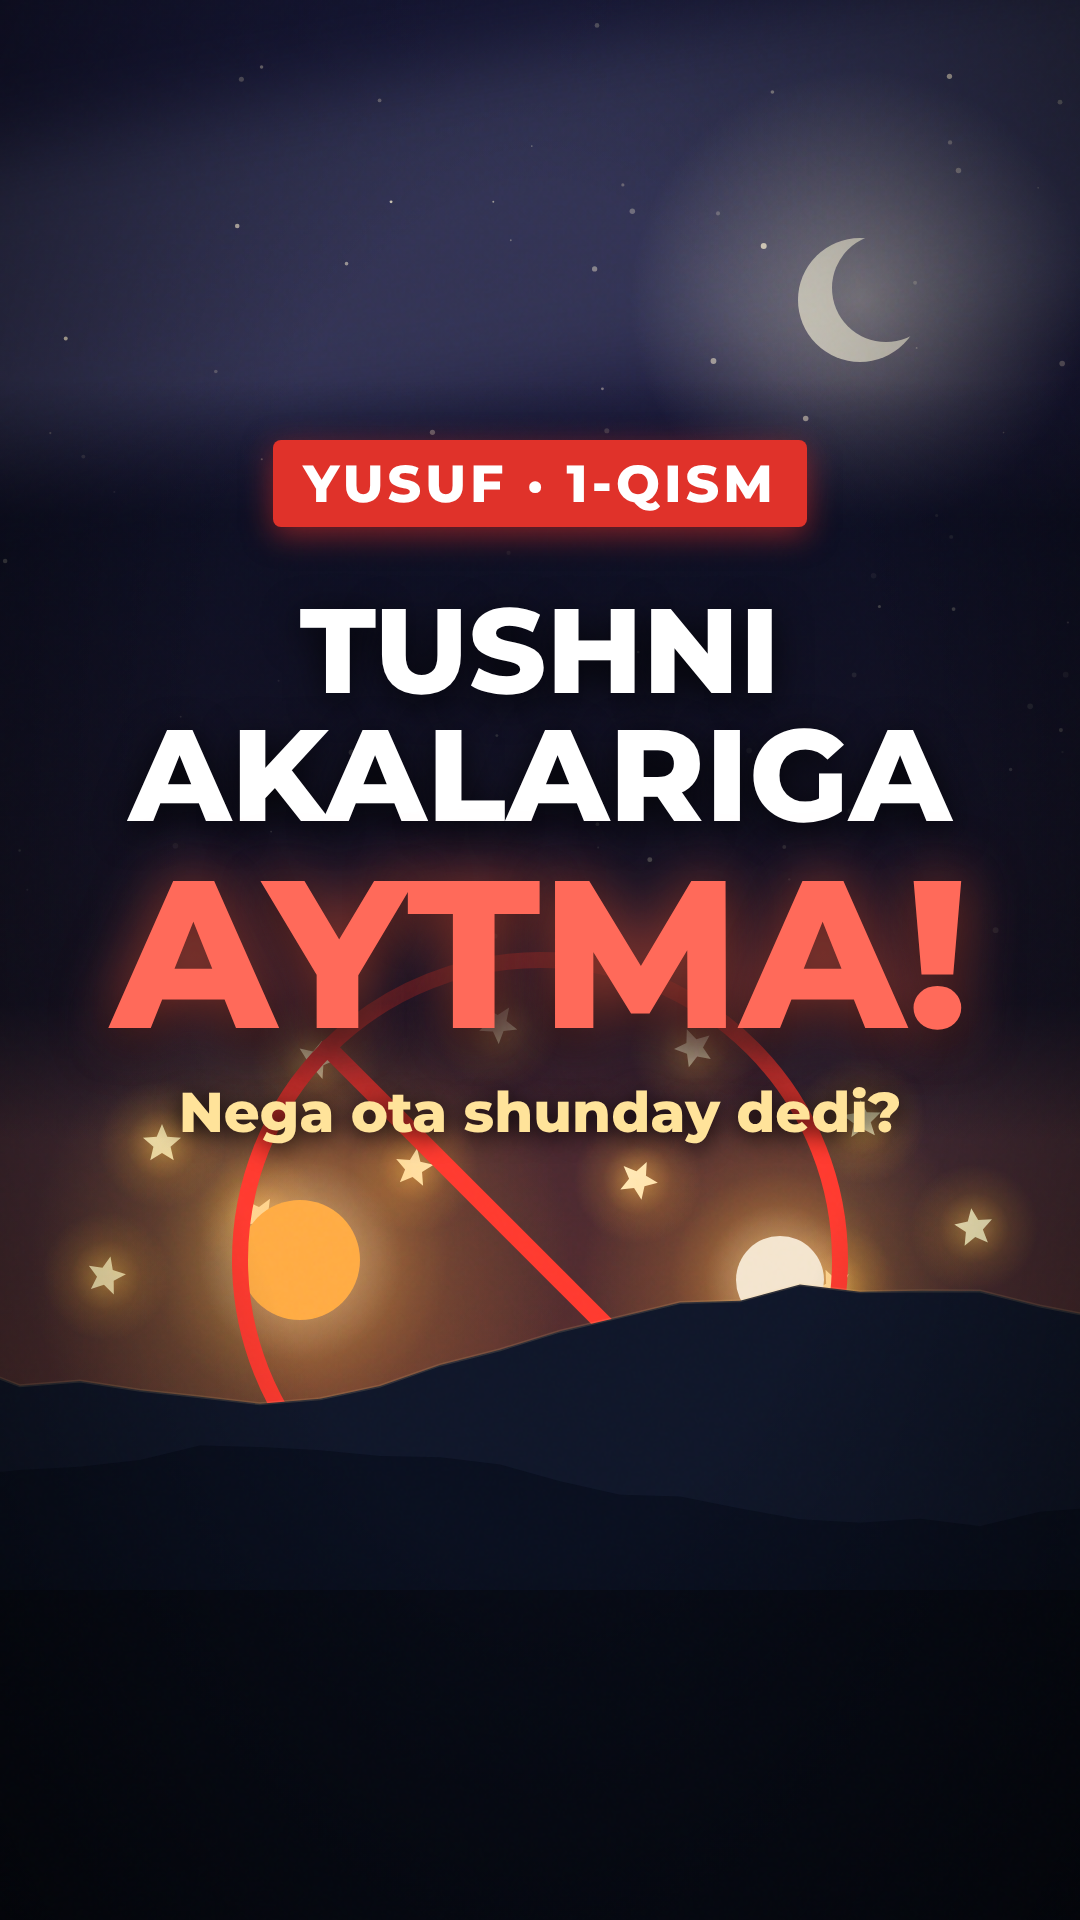
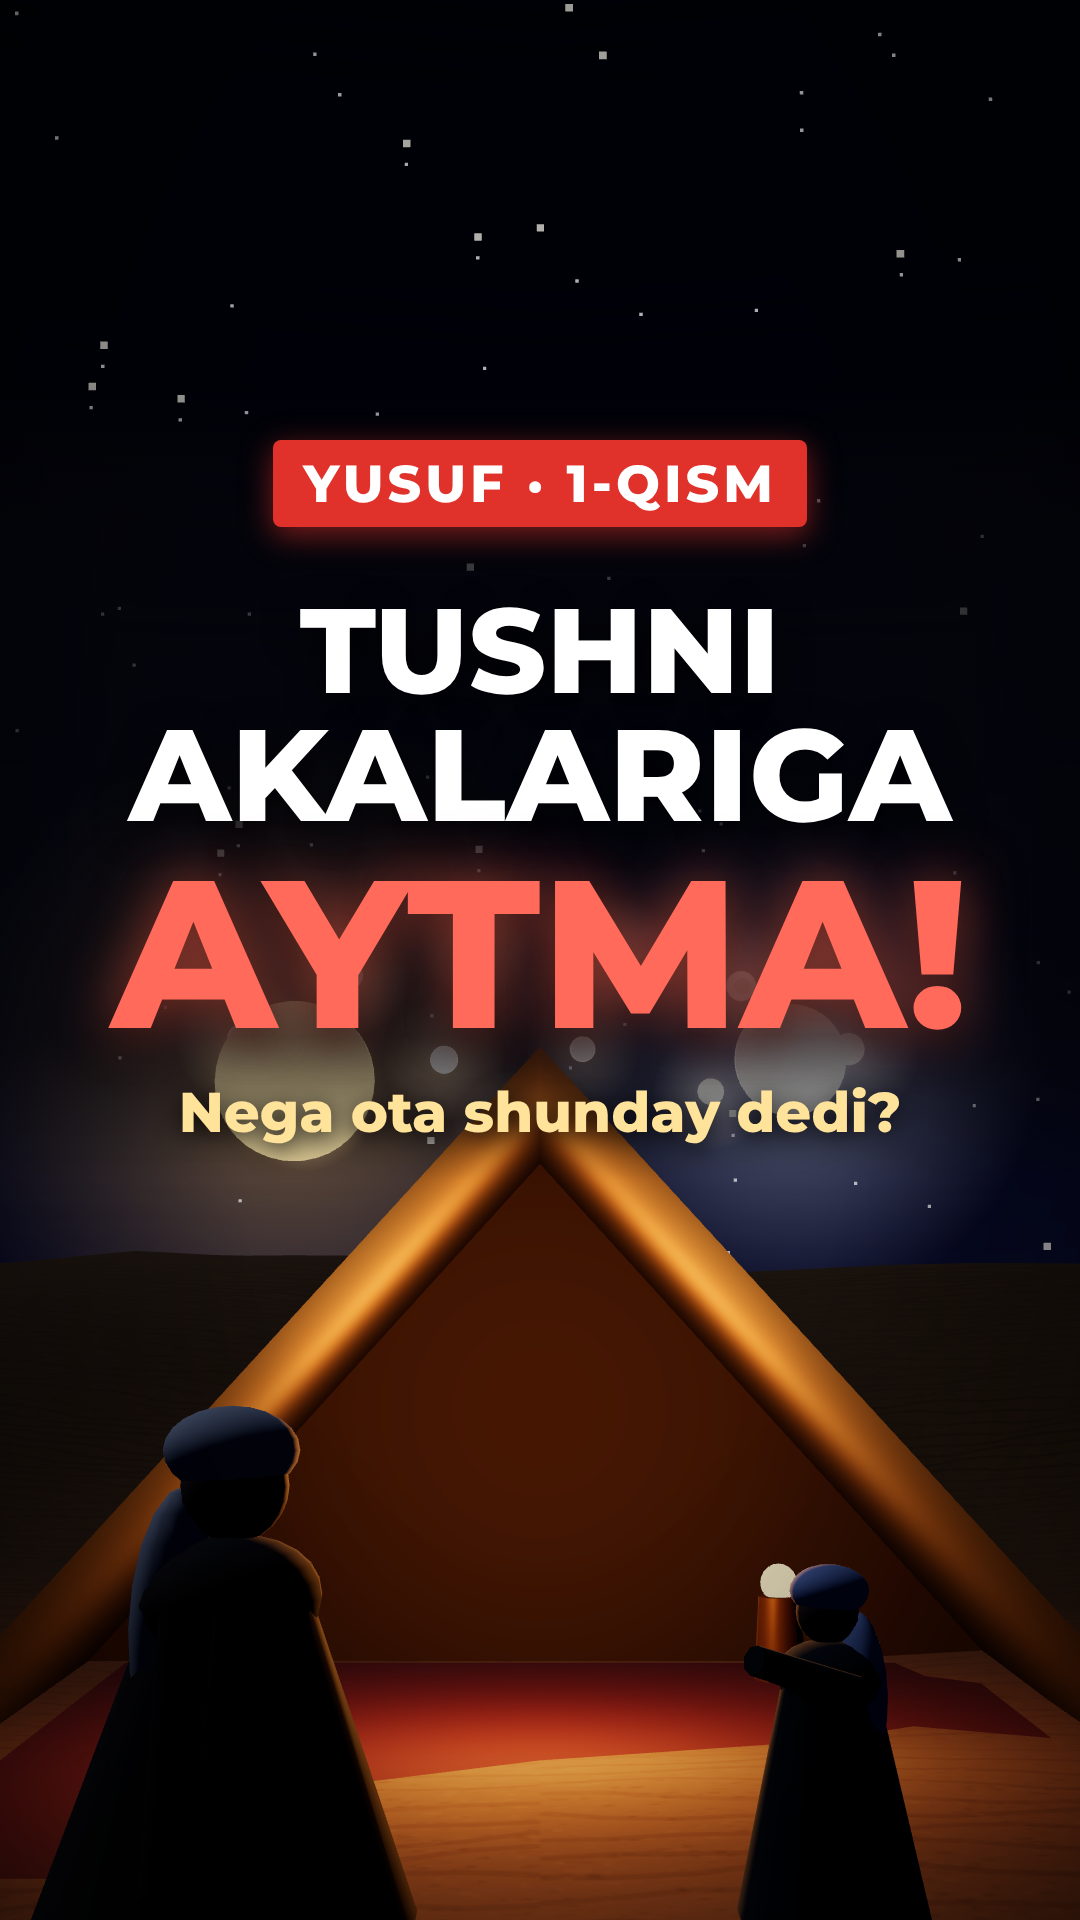
Yusuf 1: правки 3D после раскадровки, новая обложка
Claude-Session: https://claude.ai/code/session_016ssCvhv1Gc7e2VQYXfc3qP

diff --git a/reels/src/yusuf/Desert3D.tsx b/reels/src/yusuf/Desert3D.tsx
@@ -77,7 +77,6 @@ const Tent: React.FC<{t: number}> = ({t}) => {
     <group position={[T[0], gh(T[0], T[2]), T[2]]}>
       <mesh geometry={geo} castShadow><meshStandardMaterial color="#54432e" roughness={0.95} side={THREE.DoubleSide} /></mesh>
       <mesh rotation={[-Math.PI / 2, 0, 0]} position={[0, 0.02, 0]}><planeGeometry args={[3.6, 4]} /><meshStandardMaterial color="#6a2a22" roughness={0.9} /></mesh>
-      {[-1, 1].map((sd) => <mesh key={sd} position={[sd * 0.02, 1.1, 2.0]} rotation={[0, 0, 0]}><cylinderGeometry args={[0.04, 0.04, 2.2, 6]} /><meshStandardMaterial color="#2a1c10" /></mesh>)}
       <pointLight position={[0, 1.1, 0.4]} intensity={16 * fl} color="#ffa64a" distance={16} decay={2} />
       <mesh position={[0.9, 0.5, -0.6]}><sphereGeometry args={[0.07, 10, 10]} /><meshBasicMaterial color="#ffe2a0" /></mesh>
       <mesh position={[0.9, 0.3, -0.6]}><cylinderGeometry args={[0.08, 0.1, 0.3, 10]} /><meshStandardMaterial color="#6a4a1a" metalness={0.6} roughness={0.4} /></mesh>
@@ -136,7 +135,7 @@ const Scene: React.FC<{w: World; t: number}> = ({w, t}) => {
         {w.tent.mother && <Figure p={[0.75, ty, 2.7]} ry={Math.PI} seed={7} s={0.98} />}
         {w.tent.boy && <Figure p={[0.7, ty, 2.5]} ry={-Math.PI / 2 + 0.25} sit={0.55} arm={w.tent.boyArm ?? 0} seed={2} s={0.62} />}
       </>)}
-      {w.ridge !== undefined && Array.from({length: 11}, (_, i) => <Figure key={i} p={[ridgeX(i), ry - 1.6 * (1 - ss(0, 1, w.ridge! * 1.4 - i * 0.03)), RG[2] + (i % 2) * 0.25]} ry={Math.PI} seed={i} s={i === 10 ? 0.7 : 0.95 + rnd(i) * 0.12} />)}
+      {w.ridge !== undefined && Array.from({length: 11}, (_, i) => <Figure key={i} p={[ridgeX(i), ry, RG[2] + (i % 2) * 0.25]} ry={Math.PI} seed={i} s={i === 10 ? 0.7 : 0.95 + rnd(i) * 0.12} />)}
       {w.ridge !== undefined && <pointLight position={[RG[0], ry + 3.4, RG[2] + 1.5]} intensity={18 * w.ridge} color="#ffd9a0" distance={14} decay={2} />}
       {b && (<>
         <Fire t={t} red={b.red ?? 0} flare={b.flare ?? 0} />

diff --git a/reels/src/Yusuf1.tsx b/reels/src/Yusuf1.tsx
@@ -81,7 +81,7 @@ const shot = (n: number, t: number): Shot => {
       if (t < 10.3) { const a = 0.6 + 0.09 * (t - 5.4); return {w: {pos: add(F, [5.2 * Math.sin(a), 0.85, 5.2 * Math.cos(a)]), look: add(F, [0, 1.0, 0]), bro: {ring, red, flare: 0.5}, fov: 40}}; }
       const a7 = (7 / 10) * Math.PI * 2 + 0.3, d: V3 = [Math.cos(a7), 0, Math.sin(a7)], rise = k(t, 10.4, 11.8);
       const head = add(F, [d[0] * 1.42, 0.9 + 0.7 * rise, d[2] * 1.42]);
-      return {w: {pos: mv(add(F, [-d[0] * 4.6, 1.3, -d[2] * 4.6]), add(F, [-d[0] * 2.9, 1.45, -d[2] * 2.9]), k(t, 10.3, 15.9)), look: head, bro: {ring, red: 1 - 0.5 * rise, rise, flare: 0.3}, fov: 38}, dark: k(t, 15.2, 16.1)};
+      return {w: {pos: mv(add(F, [-d[0] * 5.2, 2.3, -d[2] * 5.2]), add(F, [-d[0] * 3.6, 2.2, -d[2] * 3.6]), k(t, 10.3, 15.9)), look: head, bro: {ring, red: 1 - 0.5 * rise, rise, flare: 0.3}, fov: 38}, dark: k(t, 15.2, 16.1)};
     }
   }
 };
